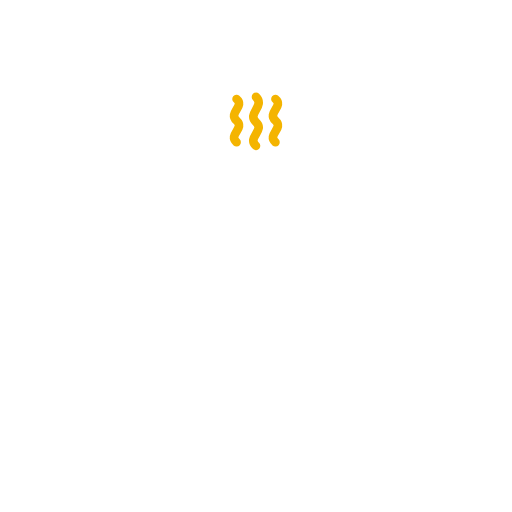
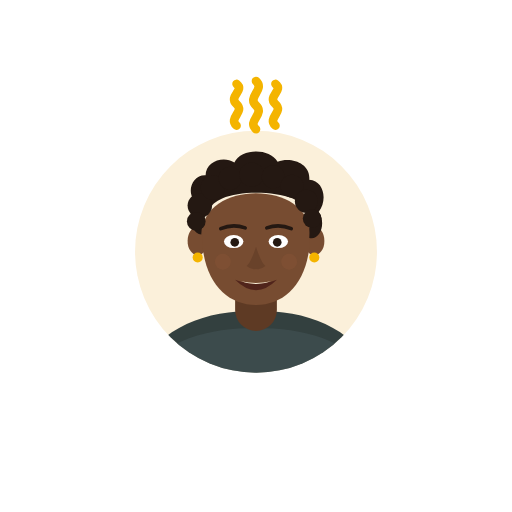
Marca do cliente: rosto da Alexandra (persona, estilo KFC)
Substitui o símbolo abstrato "A" pelo rosto estilizado da fundadora
dentro do prato creme com vapor dourado — marca de comida construída à
volta de uma pessoa real, a quem os clientes já são fiéis (mesma lógica
do Coronel Sanders no KFC). Ilustração plana e digna, na paleta da marca.

- Ícone, ícone adaptativo (frente), splash e favicon do cliente.
- Logótipo horizontal com o rosto + "Cozinha da Alexandra" + endosso
  "entregue por Manda Bué".
- Ícone monocromático/temático e simbolo-abstrato.png mantêm a versão
  abstrata (anel + A + vapor): um rosto a uma só cor vira mancha.
- Operador (marca MB) inalterado.

Uso da imagem da fundadora mediante autorização; fotos-base fornecidas
pelo negócio.

Claude-Session: https://claude.ai/code/session_012YAn7mGDrLwbXxtn7pEh3R

Changed region(s): [[0.25, 0.1562, 0.75, 0.75]]

diff --git a/docs/marca/gerar.py b/docs/marca/gerar.py
@@ -1,8 +1,11 @@
 # Marcas das apps.
-# Cliente — Cozinha da Alexandra: anel (tacho/prato visto de cima) + monograma "A"
-#   em traço contínuo + vapor dourado (comida quente de casa).
+# Cliente — Cozinha da Alexandra: rosto estilizado da fundadora (persona, estilo "Coronel" do KFC)
+#   dentro do prato creme, com vapor dourado. Versão abstrata (anel + "A" + vapor) usada no ícone
+#   monocromático (temático) do Android, onde um rosto a uma só cor não funciona.
 # Operador — Manda Bué: anel + monograma "MB" + linhas de velocidade douradas (entrega).
 VERMELHO = '#B5121B'; CARVAO = '#1F1A17'; BRANCO = '#FFFFFF'; DOURADO = '#F4B400'; SUAVE = '#5F6368'
+CREME = '#FBF0DA'; PELE = '#774C31'; PELE_ESC = '#5E3A24'; CABELO = '#241812'
+TOP = '#33403F'; TOP2 = '#46555A'; BOCA = '#50241B'
 
 
 def marca(anel=BRANCO, letras=BRANCO, linhas=DOURADO):
@@ -17,7 +20,7 @@ def marca(anel=BRANCO, letras=BRANCO, linhas=DOURADO):
 
 
 def marca_alexandra(anel=BRANCO, letra=BRANCO, vapor=DOURADO):
-    """Cozinha da Alexandra (cliente): anel + "A" + vapor. Composição centrada em (512,512)."""
+    """Versão abstrata: anel + "A" + vapor (usada no ícone monocromático)."""
     return f'''
   <g fill="none" stroke-linecap="round" stroke-linejoin="round">
     <circle cx="512" cy="512" r="300" stroke="{anel}" stroke-width="42"/>
@@ -29,6 +32,46 @@ def marca_alexandra(anel=BRANCO, letra=BRANCO, vapor=DOURADO):
   </g>'''
 
 
+def rosto(vapor=True):
+    """Rosto estilizado da Alexandra dentro do prato creme. Centro (512,500)."""
+    v = f'''
+  <g fill="none" stroke="{DOURADO}" stroke-width="24" stroke-linecap="round">
+    <path d="M458 150 C434 128 482 112 458 90 C434 68 482 52 458 34"/>
+    <path d="M512 160 C486 136 538 118 512 94 C486 70 538 50 512 26"/>
+    <path d="M566 150 C542 128 590 112 566 90 C542 68 590 52 566 34"/>
+  </g>''' if vapor else ''
+    return f'''
+  <clipPath id="prato"><circle cx="512" cy="500" r="336"/></clipPath>
+  <circle cx="512" cy="500" r="336" fill="{CREME}"/>
+  <g clip-path="url(#prato)">
+    <path d="M150 905 C210 718 352 664 512 664 C672 664 814 718 874 905 Z" fill="{TOP}"/>
+    <path d="M150 905 C210 760 352 712 512 712 C672 712 814 760 874 905 Z" fill="{TOP2}" opacity="0.5"/>
+    <path d="M454 566 h116 v96 a58 58 0 0 1 -116 0 Z" fill="{PELE_ESC}"/>
+    <ellipse cx="350" cy="470" rx="28" ry="40" fill="{PELE}"/>
+    <ellipse cx="674" cy="470" rx="28" ry="40" fill="{PELE}"/>
+    <circle cx="350" cy="516" r="14" fill="{DOURADO}"/>
+    <circle cx="674" cy="516" r="14" fill="{DOURADO}"/>
+    <path d="M362 452 C362 300 662 300 662 452 C662 580 596 648 512 648 C428 648 362 580 362 452 Z" fill="{PELE}"/>
+    <g fill="{CABELO}">
+      <path d="M360 452 C330 452 322 392 340 356 C318 330 338 286 372 288 C372 250 420 232 452 252 C470 214 548 210 572 250 C612 236 664 256 660 300 C700 302 712 356 686 390 C708 420 690 470 660 462 C664 404 646 366 614 352 C560 332 470 330 418 352 C384 366 362 400 360 452 Z"/>
+      <circle cx="356" cy="372" r="34"/><circle cx="392" cy="322" r="34"/><circle cx="440" cy="296" r="32"/>
+      <circle cx="500" cy="286" r="34"/><circle cx="560" cy="292" r="32"/><circle cx="612" cy="318" r="32"/>
+      <circle cx="652" cy="360" r="32"/><circle cx="668" cy="408" r="26"/><circle cx="346" cy="416" r="26"/>
+    </g>
+    <path d="M414 436 Q448 422 482 434" stroke="{CABELO}" stroke-width="10" fill="none" stroke-linecap="round"/>
+    <path d="M542 434 Q576 422 610 436" stroke="{CABELO}" stroke-width="10" fill="none" stroke-linecap="round"/>
+    <ellipse cx="450" cy="472" rx="27" ry="18" fill="{BRANCO}"/>
+    <ellipse cx="574" cy="472" rx="27" ry="18" fill="{BRANCO}"/>
+    <circle cx="453" cy="474" r="12" fill="{CABELO}"/>
+    <circle cx="571" cy="474" r="12" fill="{CABELO}"/>
+    <path d="M512 486 Q498 530 486 540 Q500 552 512 548 Q524 552 538 540 Q526 530 512 486 Z" fill="{PELE_ESC}" opacity="0.55"/>
+    <path d="M454 578 Q512 636 570 578 Q512 600 454 578 Z" fill="{BOCA}"/>
+    <path d="M470 582 Q512 598 554 582 Q512 592 470 582 Z" fill="{CREME}"/>
+    <circle cx="420" cy="528" r="22" fill="#8A5636" opacity="0.4"/>
+    <circle cx="604" cy="528" r="22" fill="#8A5636" opacity="0.4"/>
+  </g>{v}'''
+
+
 def svg(conteudo, fundo=None, escala=1.0, tamanho=1024):
     f = f'<rect width="1024" height="1024" fill="{fundo}"/>' if fundo else ''
     t = f'translate({512 * (1 - escala)} {512 * (1 - escala)}) scale({escala})'
@@ -36,8 +79,8 @@ def svg(conteudo, fundo=None, escala=1.0, tamanho=1024):
 
 
 def logotipo_alexandra(fundo=None):
-    """Logótipo horizontal da Cozinha da Alexandra: símbolo num quadrado vermelho + nome."""
-    m = (svg(marca_alexandra(), VERMELHO, 0.86)
+    """Logótipo horizontal: rosto da Alexandra num quadrado vermelho + nome."""
+    m = (svg(rosto(), VERMELHO, 0.9)
          .replace('<svg xmlns="http://www.w3.org/2000/svg" width="1024" height="1024" viewBox="0 0 1024 1024">', '')
          .replace('</svg>', ''))
     f = f'<rect width="1600" height="480" fill="{fundo}"/>' if fundo else ''
@@ -53,14 +96,14 @@ def logotipo_alexandra(fundo=None):
 
 ficheiros = {}
 
-# Cliente — Cozinha da Alexandra
-ma = marca_alexandra()
-ficheiros['cliente/icon.png'] = (svg(ma, VERMELHO, 0.92), 1024)
+# Cliente — Cozinha da Alexandra (rosto); monocromático usa a marca abstrata
+r = rosto()
+ficheiros['cliente/icon.png'] = (svg(r, VERMELHO, 0.92), 1024)
 ficheiros['cliente/android-icon-background.png'] = (svg('', VERMELHO), 512)
-ficheiros['cliente/android-icon-foreground.png'] = (svg(ma, None, 0.72), 512)
+ficheiros['cliente/android-icon-foreground.png'] = (svg(r, None, 0.72), 512)
 ficheiros['cliente/android-icon-monochrome.png'] = (svg(marca_alexandra(BRANCO, BRANCO, BRANCO), None, 0.72), 432)
-ficheiros['cliente/splash-icon.png'] = (svg(marca_alexandra(), None, 1.0), 1024)
-ficheiros['cliente/favicon.png'] = (svg(ma, VERMELHO, 0.92), 48)
+ficheiros['cliente/splash-icon.png'] = (svg(rosto(), None, 1.0), 1024)
+ficheiros['cliente/favicon.png'] = (svg(r, VERMELHO, 0.92), 48)
 
 # Operador — Manda Bué (carvão)
 mo = marca(anel=VERMELHO)
@@ -74,7 +117,8 @@ ficheiros['operador/favicon.png'] = (svg(mo, CARVAO, 0.92), 48)
 # Peças de marca (docs)
 ficheiros['marca/logotipo.png'] = (logotipo_alexandra(), None)
 ficheiros['marca/logotipo-fundo-claro.png'] = (logotipo_alexandra('#FFFFFF'), None)
-ficheiros['marca/simbolo.png'] = (svg(marca_alexandra(), VERMELHO, 0.92), 1024)
+ficheiros['marca/simbolo.png'] = (svg(rosto(), VERMELHO, 0.92), 1024)
+ficheiros['marca/simbolo-abstrato.png'] = (svg(marca_alexandra(), VERMELHO, 0.92), 1024)
 ficheiros['marca/simbolo-operador.png'] = (svg(marca(anel=VERMELHO), CARVAO, 0.92), 1024)
 
 import json, os
@@ -84,11 +128,10 @@ for nome, (conteudo, tam) in ficheiros.items():
     caminho_svg = 'svg/' + nome.replace('/', '__').replace('.png', '.svg')
     open(caminho_svg, 'w').write(conteudo)
     lista.append({'svg': caminho_svg, 'png': 'out/' + nome, 'tamanho': tam})
-# SVGs vetoriais de referência
 open('svg/logotipo.svg', 'w').write(logotipo_alexandra())
-open('svg/simbolo.svg', 'w').write(svg(marca_alexandra(), VERMELHO, 0.92))
-open('simbolo.svg', 'w').write(svg(marca_alexandra(), VERMELHO, 0.92))
-open('simbolo-icone.svg', 'w').write(svg(marca_alexandra(), VERMELHO, 0.92))
+open('svg/simbolo.svg', 'w').write(svg(rosto(), VERMELHO, 0.92))
+open('simbolo.svg', 'w').write(svg(rosto(), VERMELHO, 0.92))
+open('simbolo-icone.svg', 'w').write(svg(rosto(), VERMELHO, 0.92))
 open('logotipo.svg', 'w').write(logotipo_alexandra())
 json.dump(lista, open('lista.json', 'w'), indent=1)
 print(len(lista), 'ficheiros')

diff --git a/docs/marca/README.md b/docs/marca/README.md
@@ -4,19 +4,24 @@ Há duas assinaturas, uma por app, com a mesma linguagem gráfica (anel = tacho/
 traço contínuo, dourado de realce) e as cores que lembram a bandeira de Angola sem a copiar
 (vermelho, carvão e dourado).
 
-- **Cliente — Cozinha da Alexandra:** anel com o monograma **A** (de Alexandra) ao centro e **vapor
-  dourado** a subir — comida quente de casa. "Manda Bué" aparece só como endosso discreto
-  ("entregue por Manda Bué"), nunca com símbolo próprio a competir.
+- **Cliente — Cozinha da Alexandra:** **rosto estilizado da fundadora** (persona, no espírito do
+  Coronel do KFC) dentro do prato creme, com **vapor dourado** — comida quente de casa, feita por uma
+  pessoa real a quem os clientes são fiéis. Há uma **versão abstrata** (anel + monograma **A** +
+  vapor), usada no ícone monocromático/temático do Android, onde um rosto a uma só cor não funciona.
+  "Manda Bué" aparece só como endosso discreto ("entregue por Manda Bué"), nunca com símbolo próprio.
 - **Operador — Manda Bué:** anel com o monograma **MB** e três **linhas de velocidade** douradas à
   esquerda — a camada de logística/entrega.
 
 | Ficheiro | Uso |
 |---|---|
-| `simbolo.svg` / `simbolo.png` | Símbolo da app do cliente — Cozinha da Alexandra (fundo vermelho) |
+| `simbolo.svg` / `simbolo.png` | Símbolo da app do cliente — rosto da Alexandra (fundo vermelho) |
+| `simbolo-abstrato.png` | Versão abstrata (anel + A + vapor), p/ monocromático/usos a uma cor |
 | `simbolo-operador.png` | Símbolo da app do operador — Manda Bué (fundo carvão, anel vermelho) |
 | `logotipo.svg` / `logotipo.png` | Logótipo horizontal da Cozinha da Alexandra, fundo transparente |
 | `logotipo-fundo-claro.png` | Logótipo horizontal sobre branco |
 | `simbolo-icone.svg` | Fonte do ícone da app do cliente (1024 × 1024) |
+
+> Uso da imagem da fundadora mediante a sua autorização. As fotos-base foram fornecidas pelo negócio.
 
 Os desenhos são gerados por `gerar.py` (produz os SVG + `lista.json`) e rasterizados por `render.js`
 com o Chromium/Playwright (`node render.js`, transparência correta). Os ícones, o ícone adaptativo do
